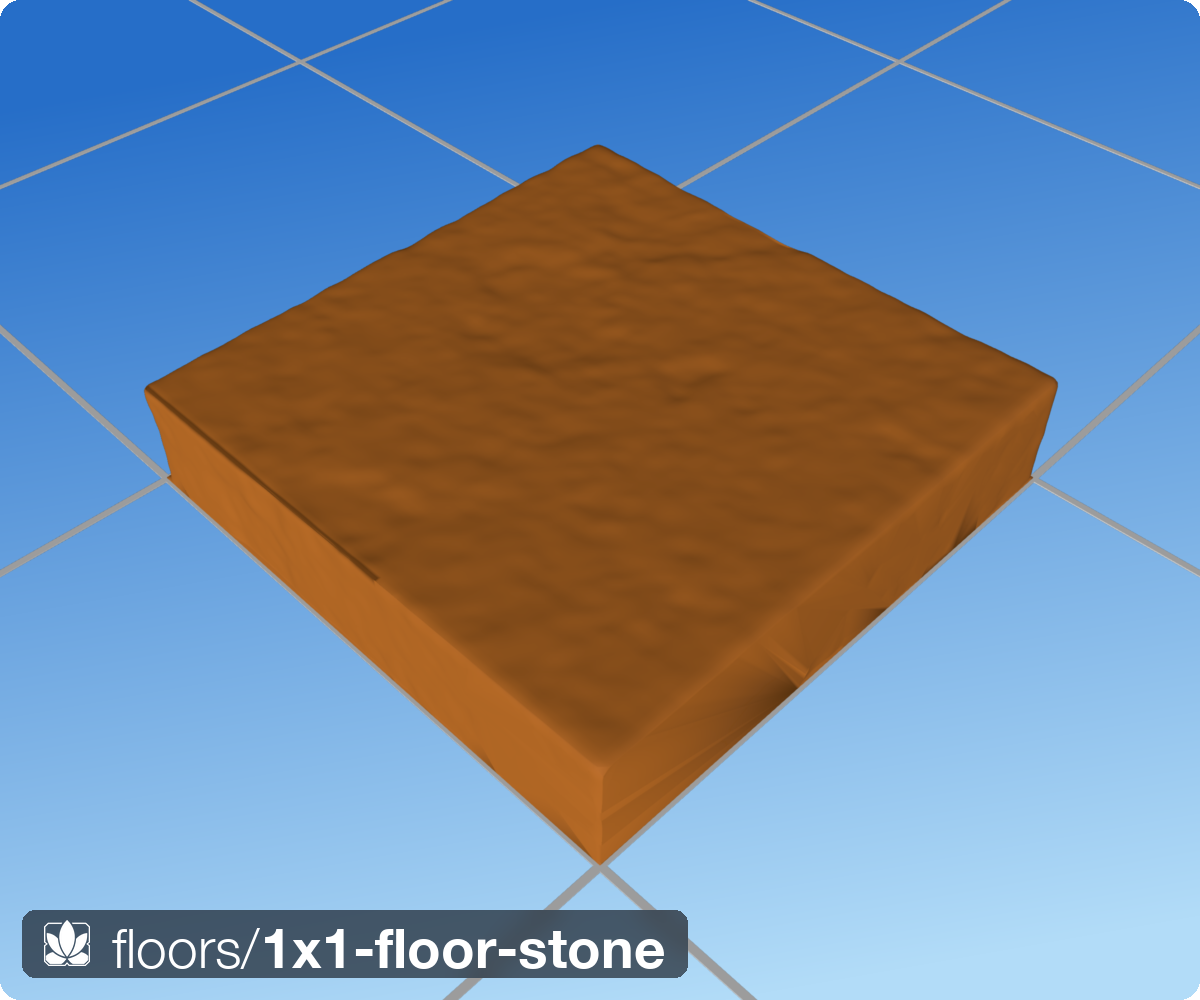
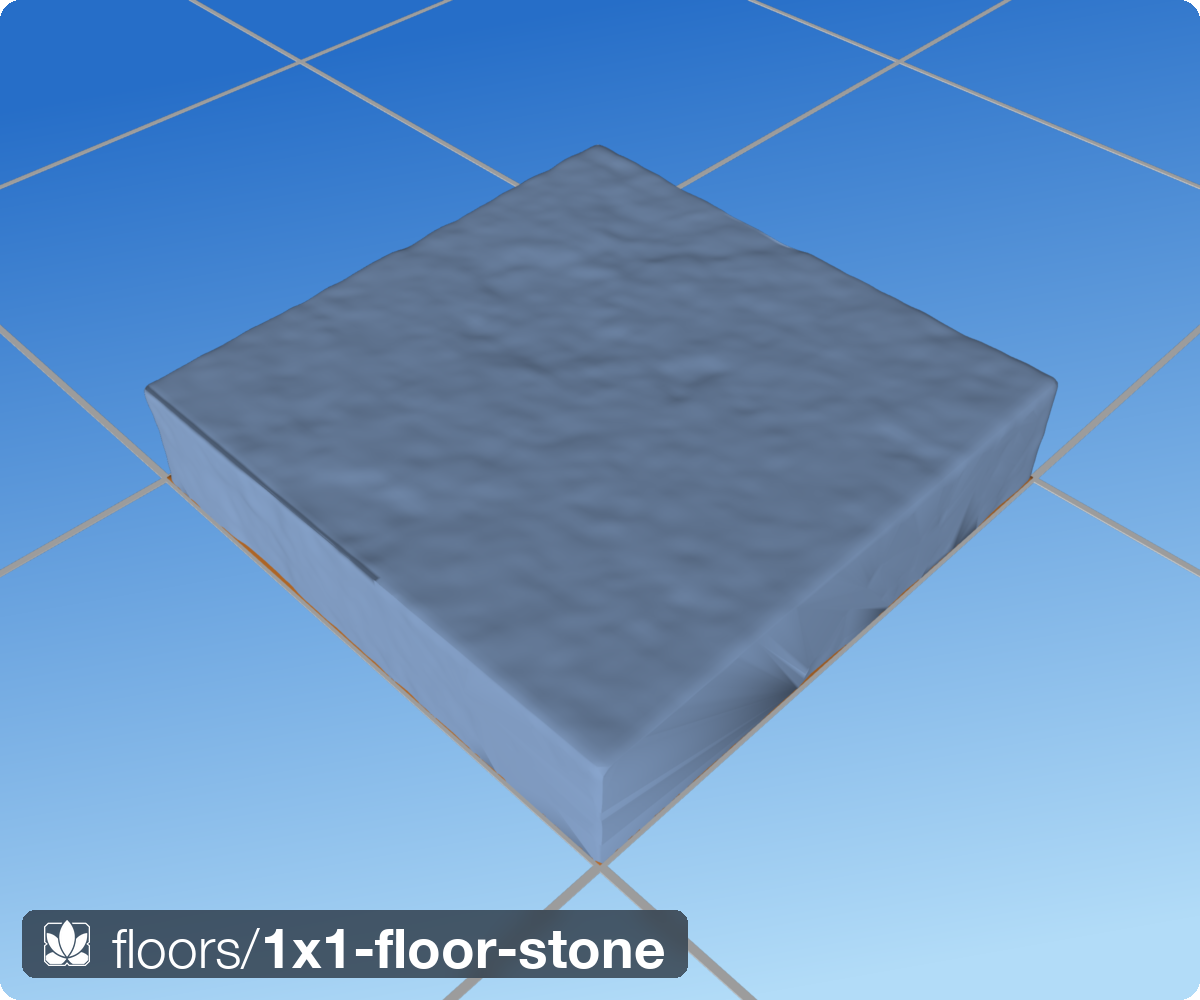
Floors: re-tag ROCK after the laid_flat bottom clip
Shawn: "the floor stones somehow got flagged as soil??"  The flat-mode
bottom clip runs AFTER assemble_masonry tags the solid, and
clip_to_box's boolean returns a fresh mesh with metadata stripped —
the untagged pavement then defaulted to SOIL in the material grouping
(brown floors in the colored output).  Re-tag ROCK after the clip.

Verified: drystone tile groups as BASE + SOIL (terrain film only) +
ROCK (pavement + wall).  Floor demos + production floor tiles rebuilt,
all clean.

diff --git a/src/dharmatiles/walls/masonry.py b/src/dharmatiles/walls/masonry.py
@@ -521,6 +521,9 @@ class CutStoneWall:
                     [surface.tile_w / 2.0, surface.tile_h / 2.0,
                      (T + 20.0) / 2.0]))
             wall = clip_to_box(wall, box, 'floor bottom')
+            # The boolean returns a fresh mesh with metadata stripped —
+            # untagged parts default to SOIL in the material grouping.
+            _tag(wall, Material.ROCK)
 
         self._stamp(scene, segs, seat_z + (T if self.laid_flat else H))
         return [wall]
